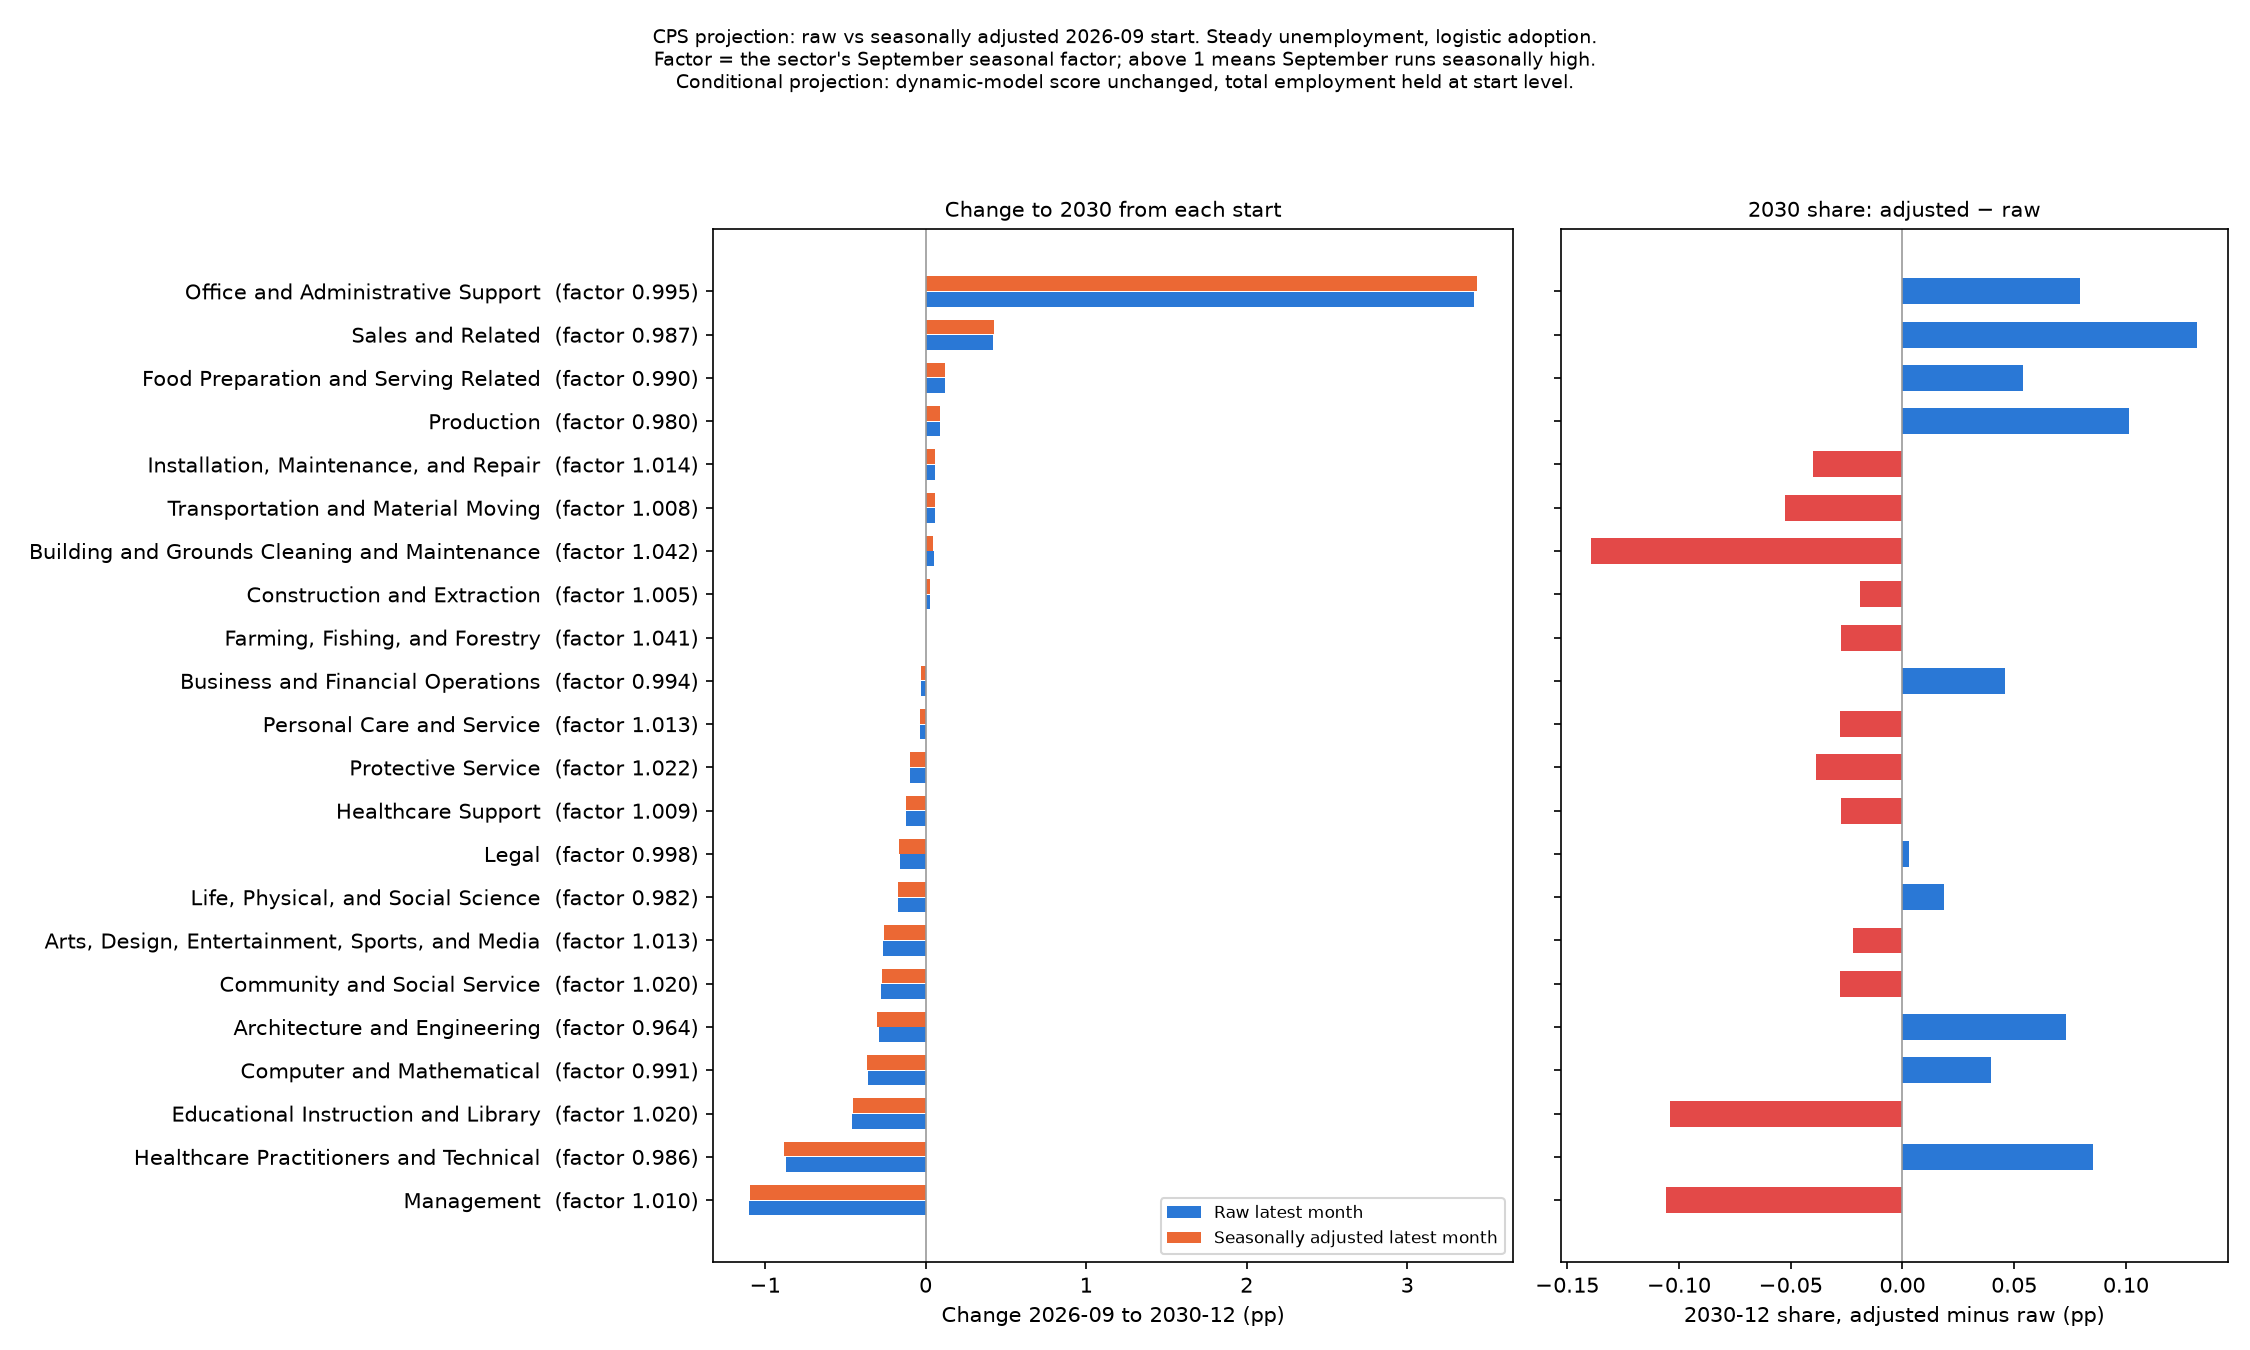
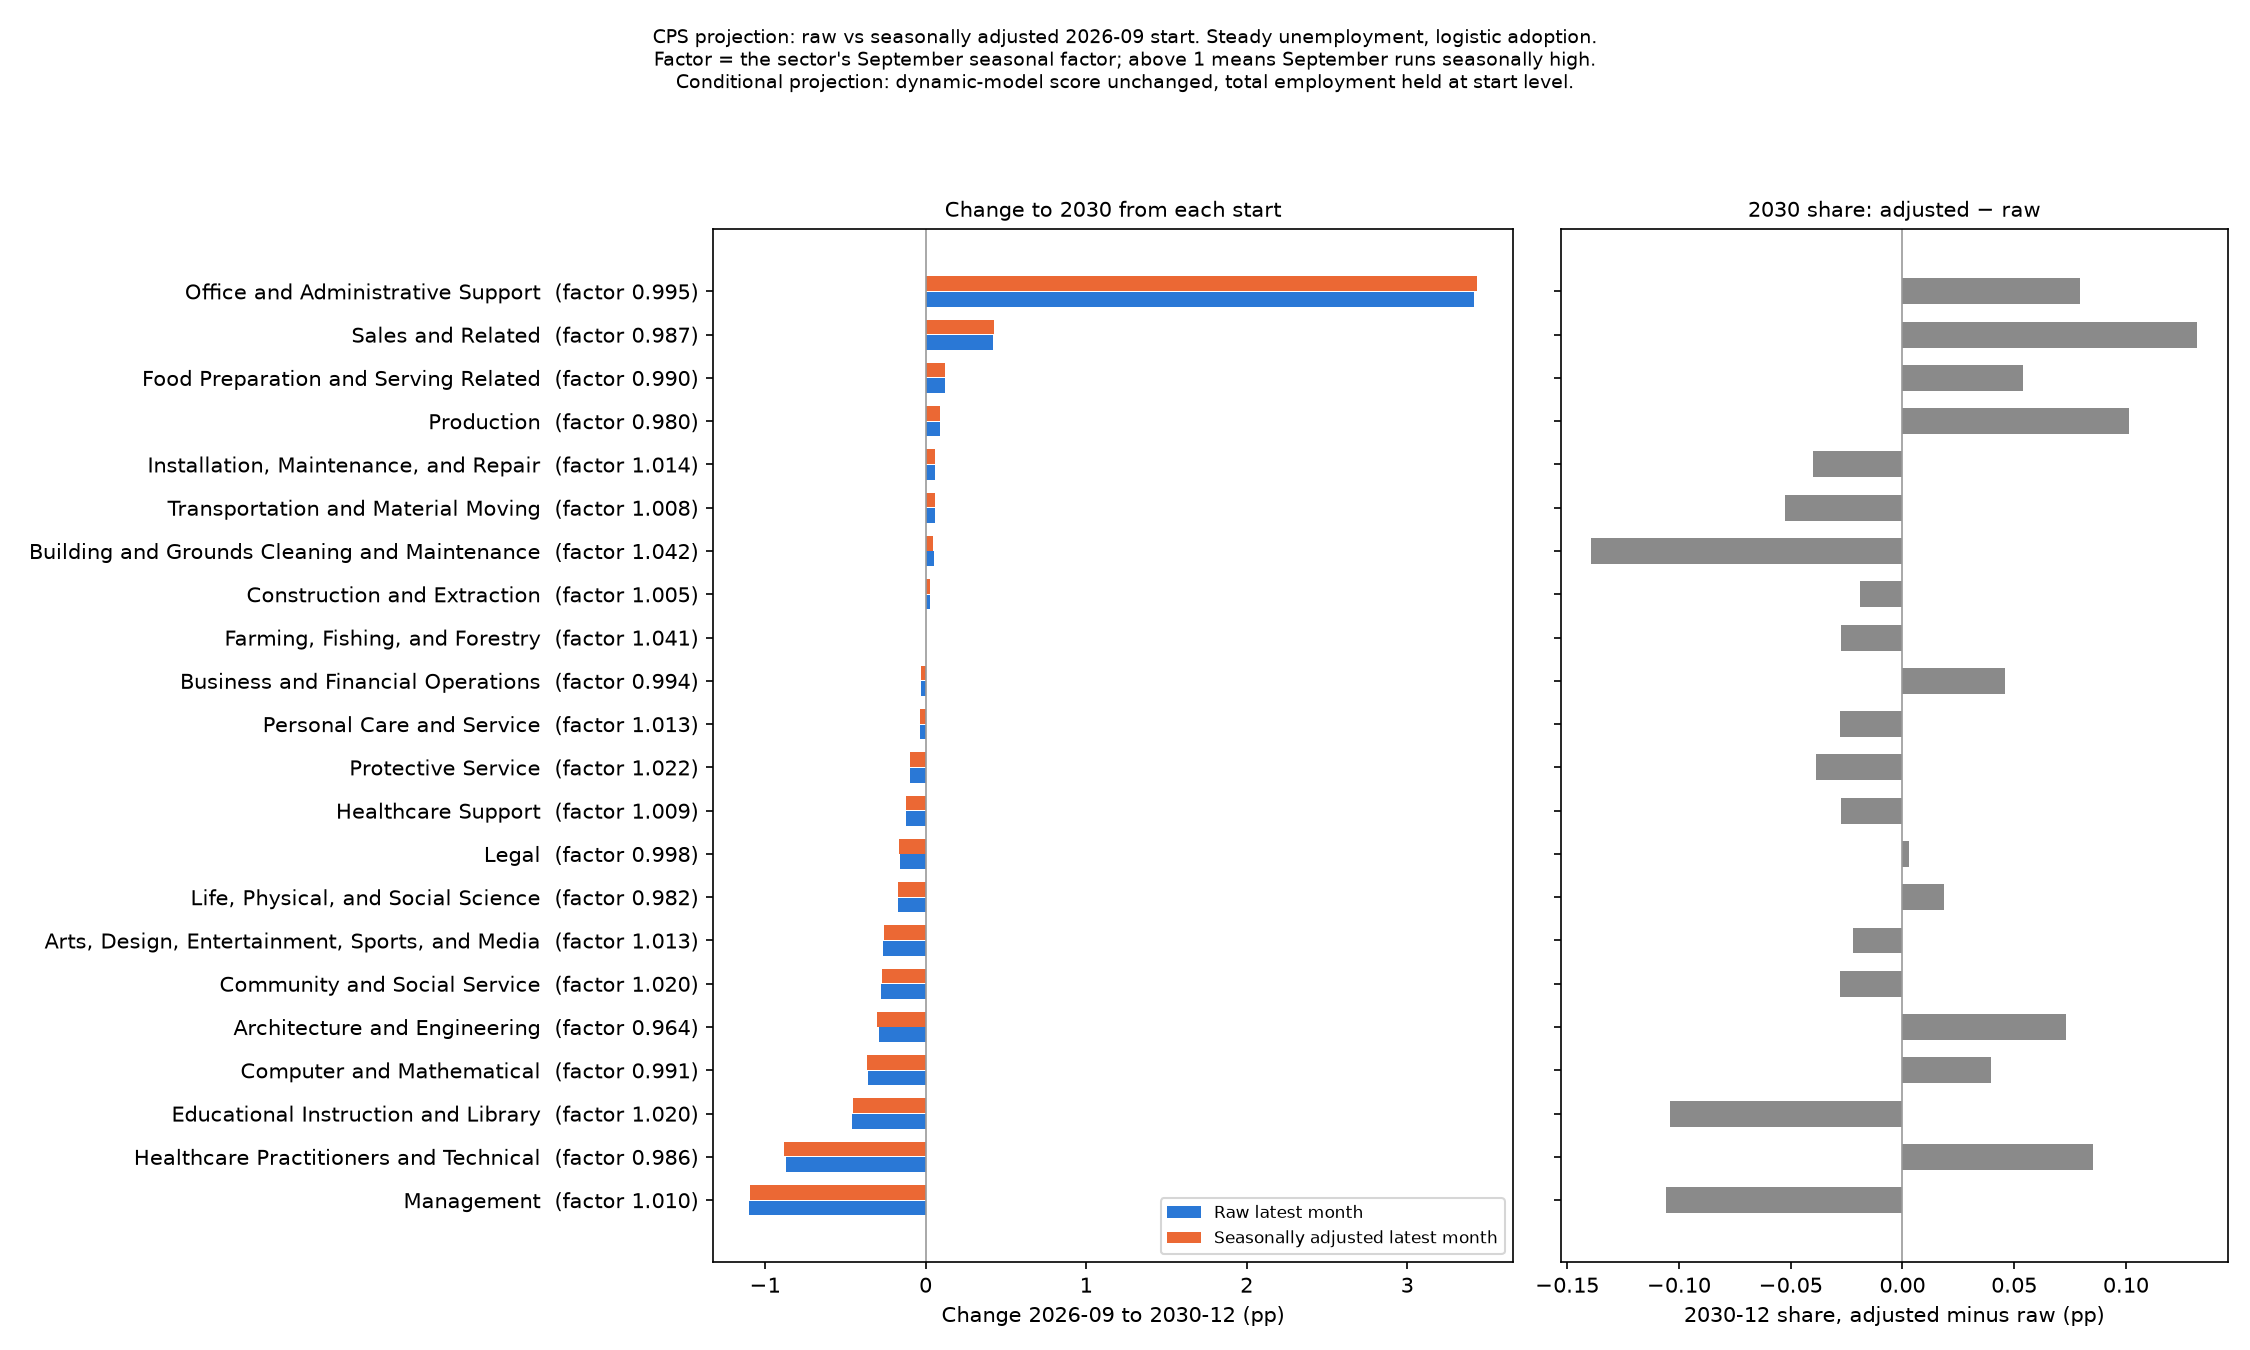
Draw the start-basis gap panel in neutral grey
The gap panel used the gain blue for positive bars, which collided with blue
meaning the raw start in the left panel. Both signs are now grey either side of
the zero line. Chart image, manifest and chart page regenerated.

diff --git a/forecast_charts.py b/forecast_charts.py
@@ -42,6 +42,7 @@ SCENARIO_LABELS = {"steady": "Steady unemployment", "mild_recession": "Mild rece
 REFERENCE_SCENARIO = ("steady", "logistic")
 START_BASIS_LABELS = {"raw": "Raw latest month", "seasonally_adjusted": "Seasonally adjusted latest month"}
 START_BASIS_COLORS = {"raw": "#2a78d6", "seasonally_adjusted": "#eb6834"}  # categorical slots 1 and 2
+GAP_COLOR = "#8a8a8a"  # neutral grey: the gap panel must not reuse the raw/adjusted start-basis colours or gain/loss blue
 PROJECTION_NOTE = "Conditional projection: dynamic-model score unchanged, total employment held at start level."
 
 
@@ -321,7 +322,7 @@ def plot_cps_start_basis(sector_paths_df, seasonal_factors_df, output_dir):
     axis.set_xlabel(f"Change {start_label} to {end_label} (pp)")
     axis.legend(fontsize=8, loc="lower right")
     axis.set_title("Change to 2030 from each start", fontsize=10)
-    gap_axis.barh(positions, share_gap, height=0.6, color=np.where(share_gap >= 0, GAIN_COLOR, LOSS_COLOR))
+    gap_axis.barh(positions, share_gap, height=0.6, color=GAP_COLOR)
     gap_axis.axvline(0, color="#999999", linewidth=0.8)
     gap_axis.set_xlabel(f"{end_label} share, adjusted minus raw (pp)")
     gap_axis.set_title("2030 share: adjusted − raw", fontsize=10)

diff --git a/docs/charts/forecast_cps_start_basis.md b/docs/charts/forecast_cps_start_basis.md
@@ -14,7 +14,7 @@
 
 **The raw start stays primary.** The other six forecast charts, and the CPS panel of `forecast_sector_change_2030.png`, use the raw start. This chart is the only place the adjusted start appears.
 
-**Right panel, "2030 share: adjusted − raw".** One bar per sector, in the left panel's order: the adjusted start's projected 2030-12 share minus the raw start's, in percentage points (blue positive, red negative). The left panel compares changes, which hide the seasonal effect because it sits in the start level and cancels out of a change. The right panel compares the levels where it shows.
+**Right panel, "2030 share: adjusted − raw".** One bar per sector, in the left panel's order: the adjusted start's projected 2030-12 share minus the raw start's, in percentage points (grey bars either side of a zero line; sign is read from direction, not colour). The left panel compares changes, which hide the seasonal effect because it sits in the start level and cancels out of a change. The right panel compares the levels where it shows.
 
 ## Reading
 
